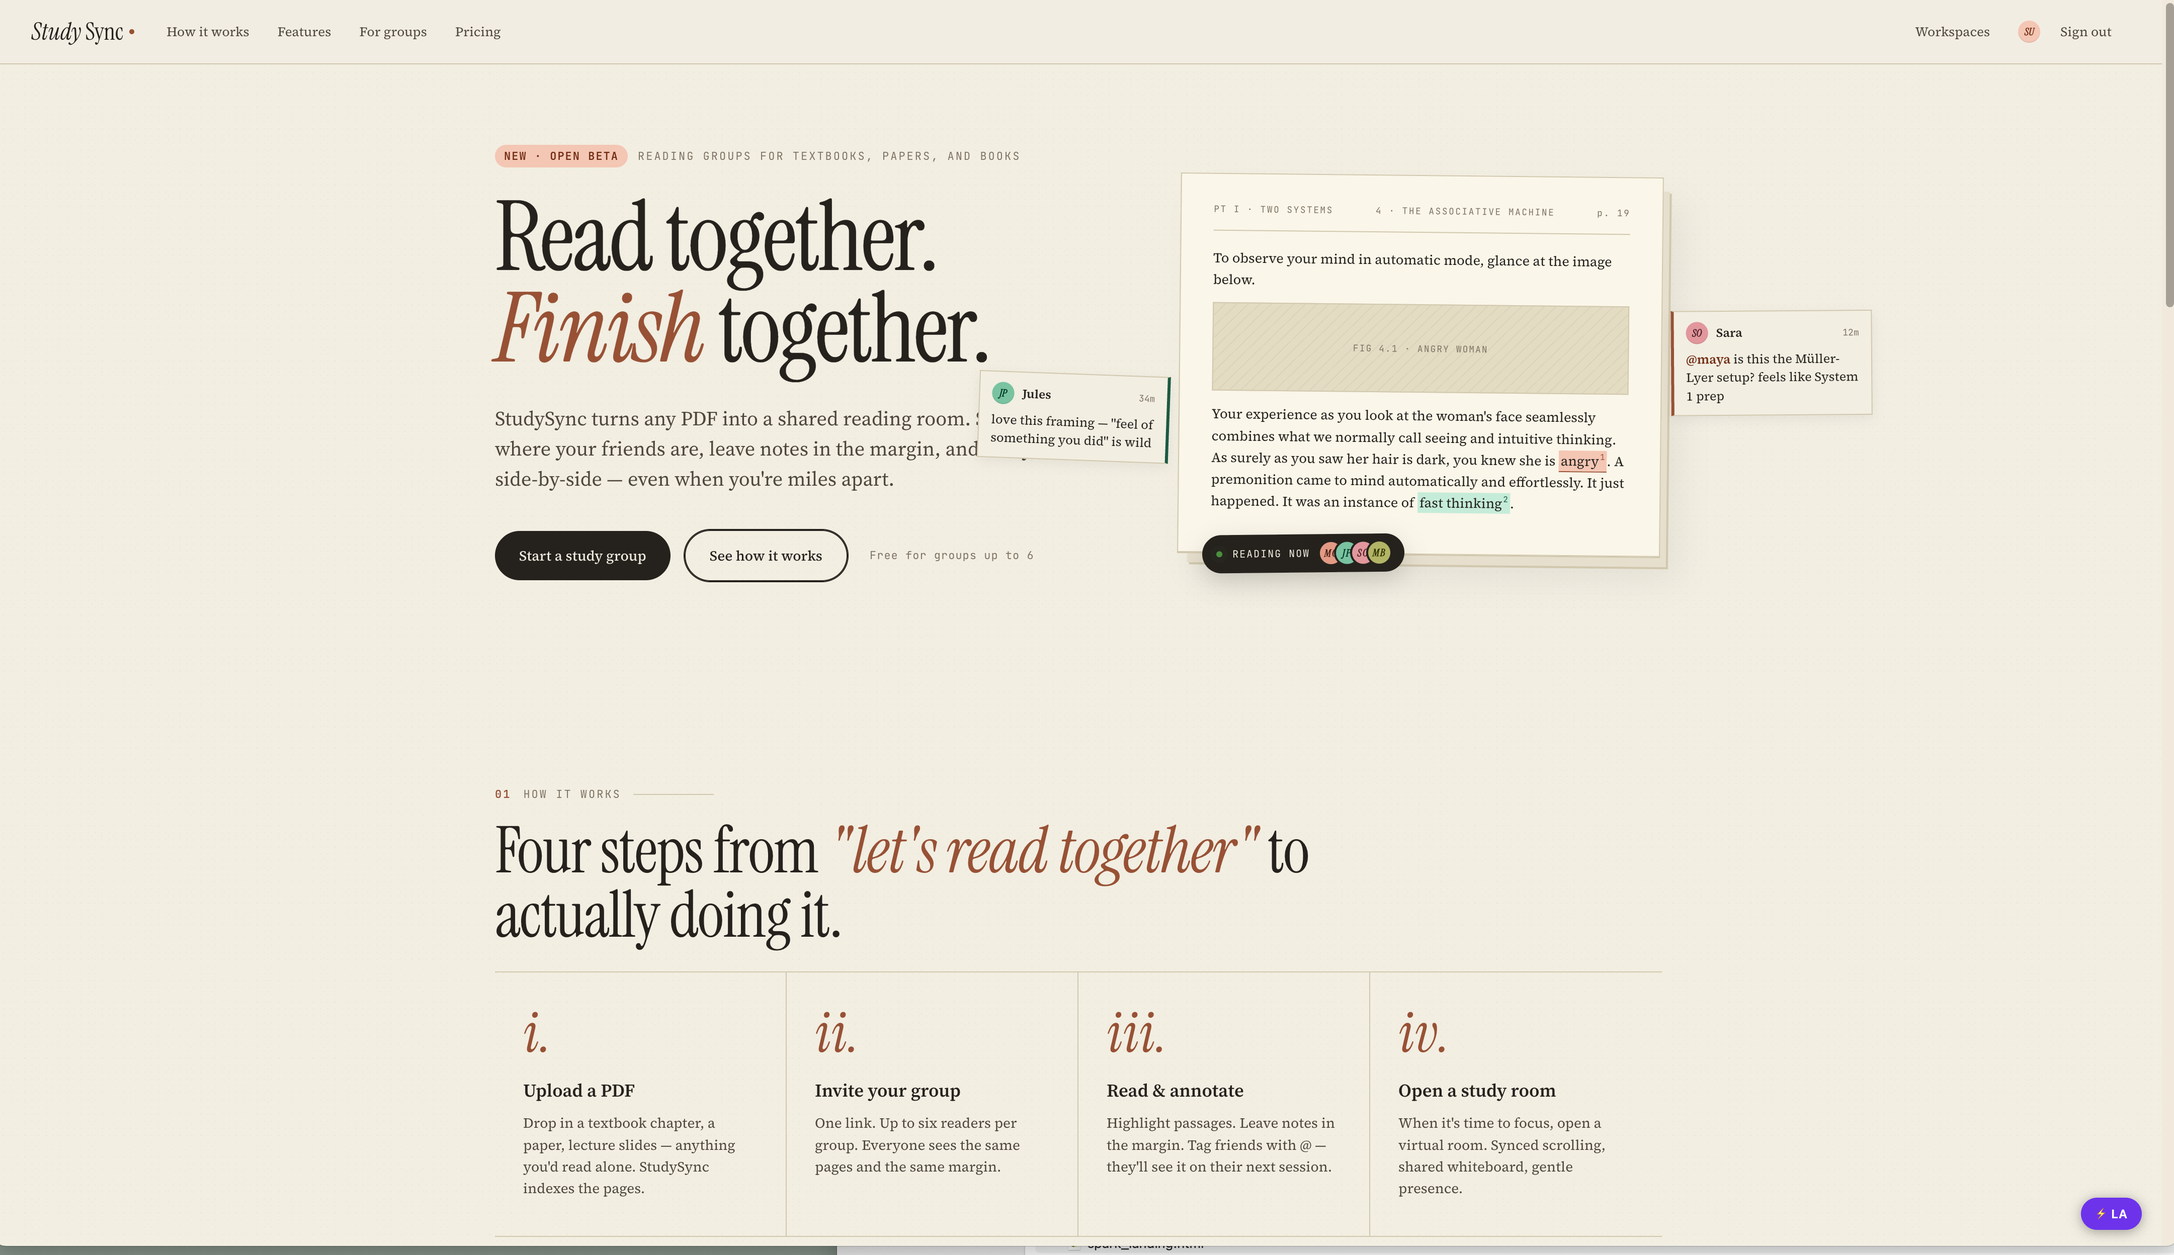
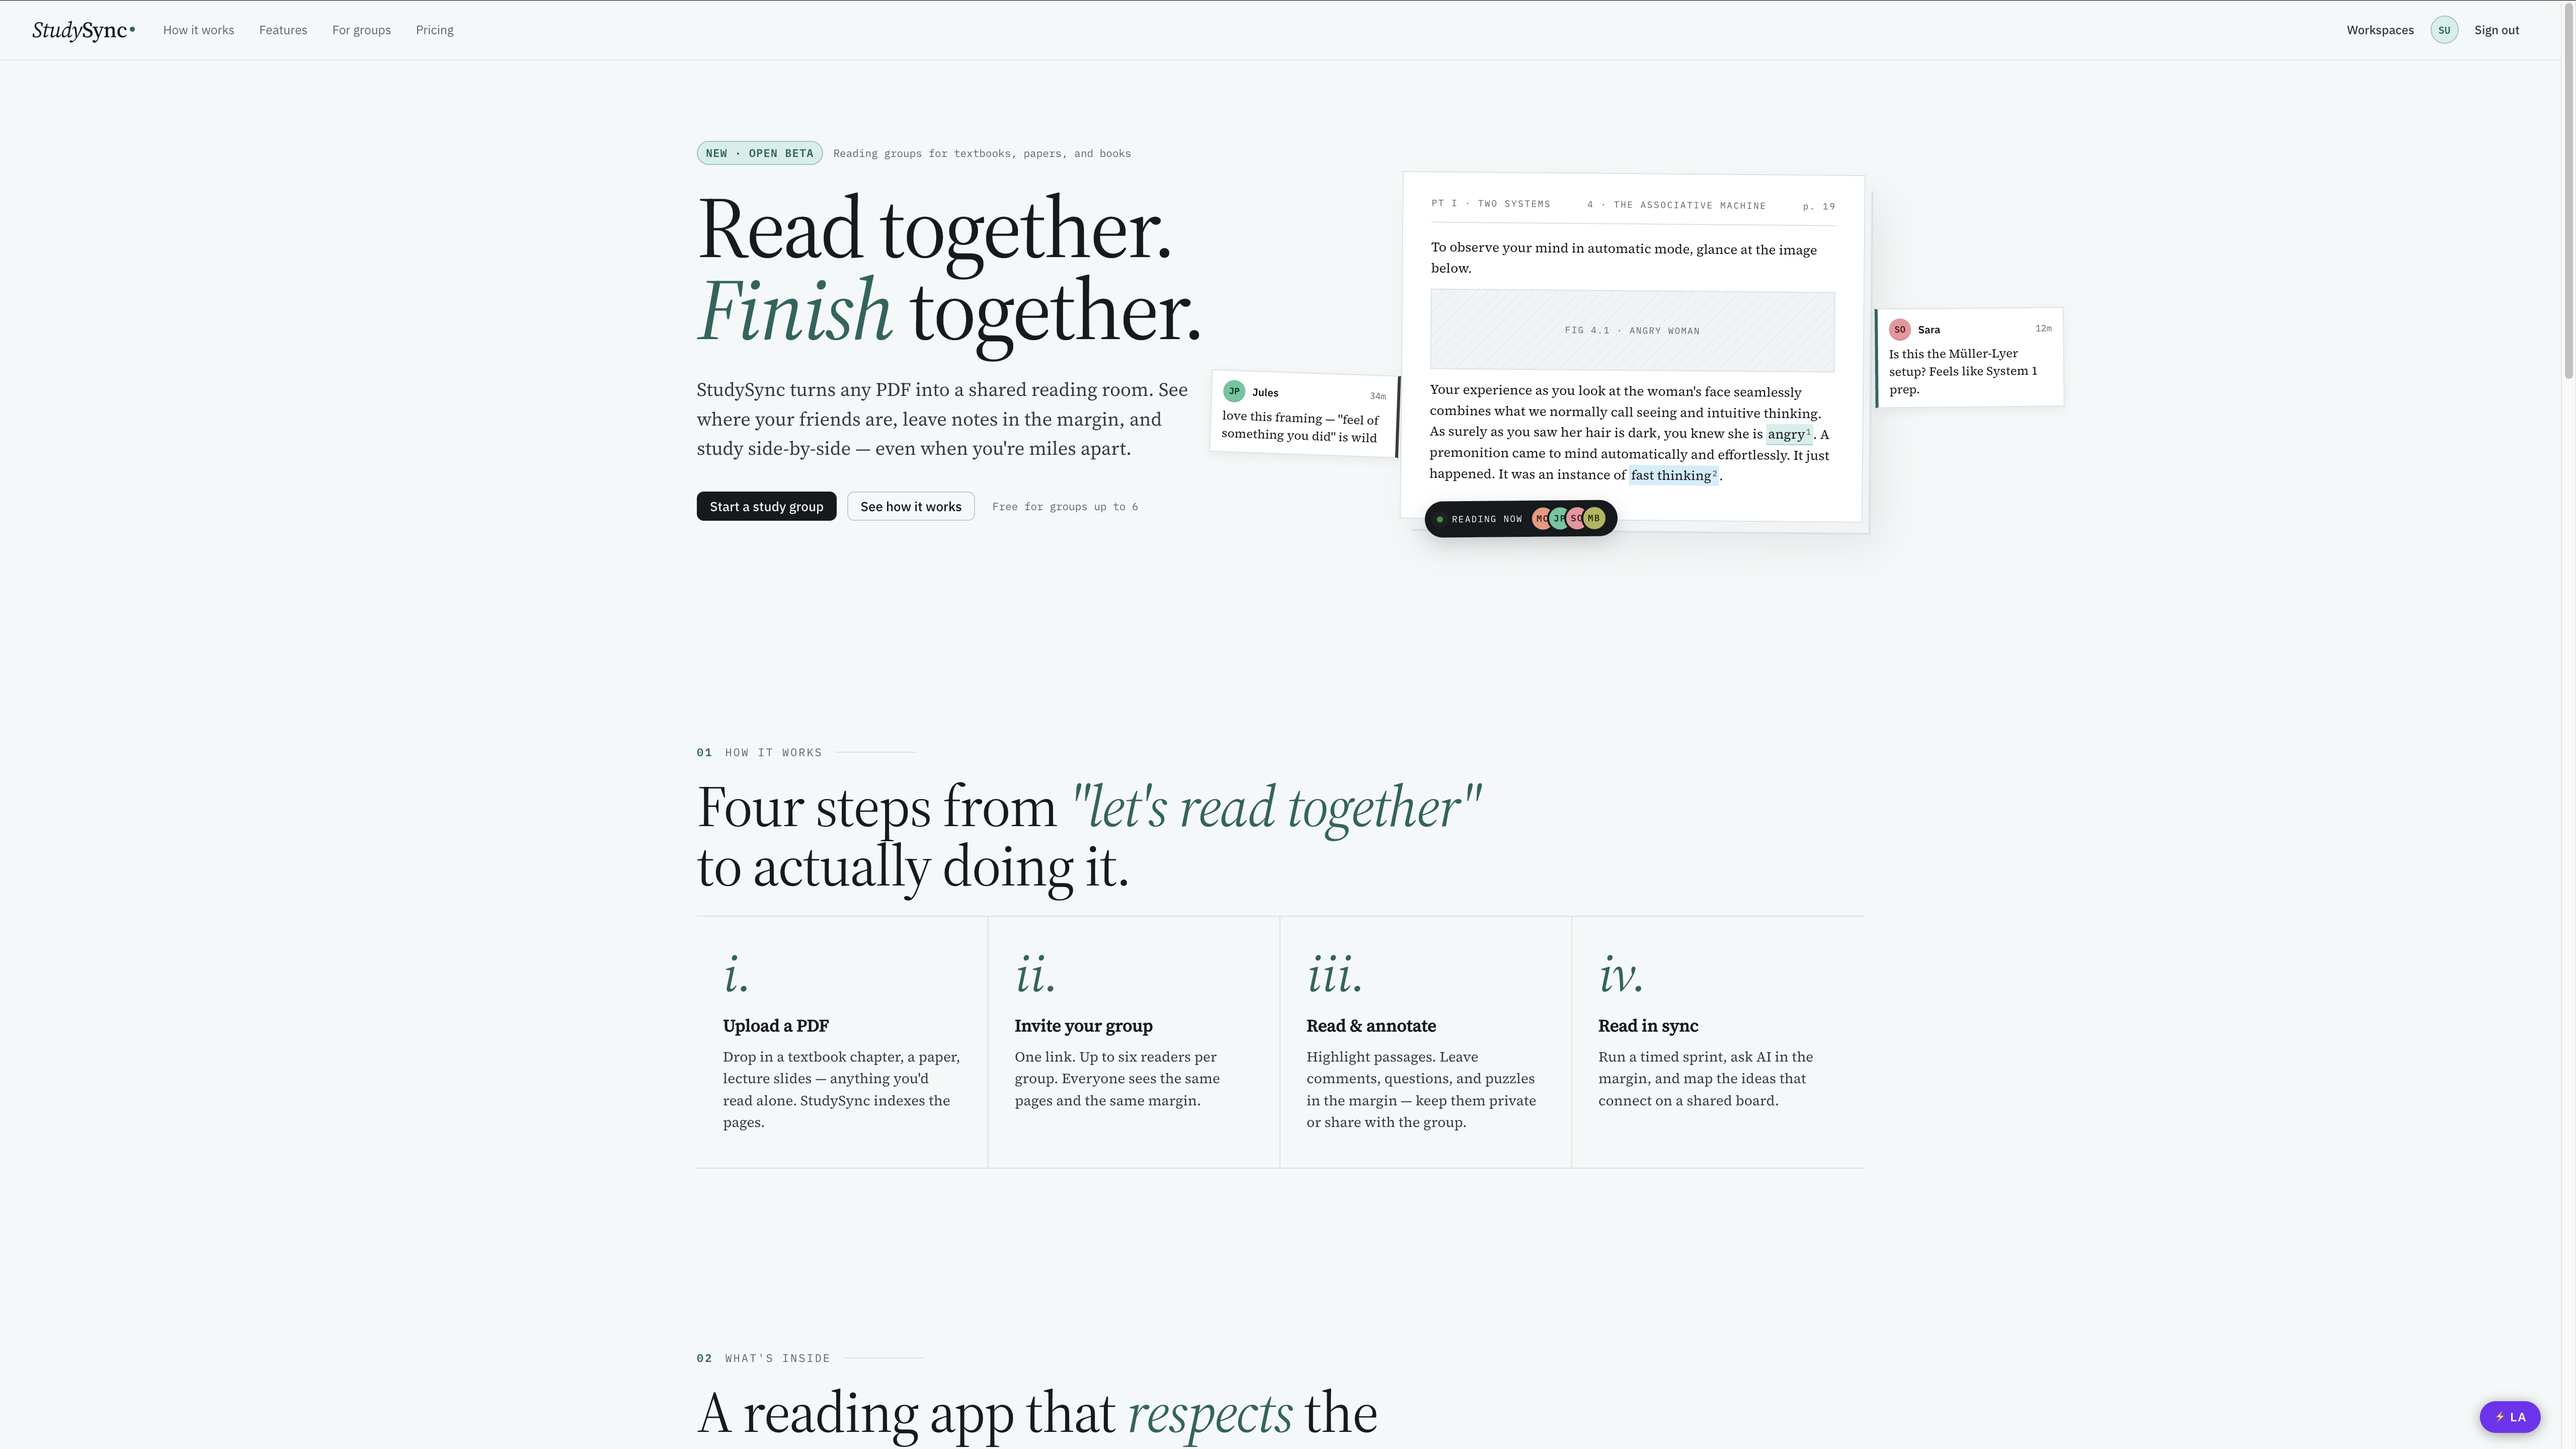
changes to home page

diff --git a/assets/css/app.css b/assets/css/app.css
@@ -823,6 +823,33 @@ body {
 .lp-timer-bar > span { position: absolute; inset: 0; width: 55%; background: var(--color-terracotta); }
 .lp-pomo { font-family: var(--font-serif); font-style: italic; font-size: 20px; color: var(--color-terracotta); }
 
+/* lens / collective-insight card (amber — not theme-flipped, like the highlight tints) */
+.lp-lens { margin-top: 16px; padding: 12px 14px; background: oklch(0.95 0.045 85); border: 1px solid oklch(0.85 0.075 80); border-left: 3px solid oklch(0.70 0.13 70); }
+.lp-lens-head { display: flex; align-items: baseline; justify-content: space-between; margin-bottom: 6px; }
+.lp-lens-badge { font-family: var(--font-mono); font-size: 9px; letter-spacing: 1.2px; color: oklch(0.48 0.12 65); font-weight: 600; }
+.lp-lens-meta { font-family: var(--font-mono); font-size: 9px; letter-spacing: 1px; color: var(--ds-muted); }
+.lp-lens-body { font-family: var(--font-serif); font-size: 13px; line-height: 1.55; color: var(--ds-ink); }
+.lp-lens-body em { font-style: italic; color: oklch(0.45 0.13 60); }
+.lp-lens-by { margin-top: 8px; font-family: var(--font-mono); font-size: 8px; letter-spacing: 1px; color: var(--ds-muted); }
+
+/* ── More features grid ──────────────────────────────────────────────────── */
+
+.lp-more { border-top: 1px solid var(--ds-line); padding-top: 64px; }
+.lp-more-grid {
+  display: grid;
+  grid-template-columns: repeat(3, 1fr);
+  border-top: 1px solid var(--ds-line);
+  border-bottom: 1px solid var(--ds-line);
+}
+.lp-more-card { padding: 28px 24px 32px; border-right: 1px solid var(--ds-line); }
+.lp-more-card:last-child { border-right: none; }
+.lp-more-n {
+  font-family: var(--font-serif); font-style: italic; font-size: 34px;
+  color: var(--color-terracotta); line-height: 1; display: block; margin-bottom: 14px;
+}
+.lp-more-card h4 { font-family: var(--font-serif); font-size: 19px; font-weight: 600; margin: 0 0 8px; letter-spacing: -0.3px; }
+.lp-more-card p { font-family: var(--font-serif); font-size: 13.5px; line-height: 1.55; color: var(--ds-ink-2); margin: 0; }
+
 /* ── Quotes ──────────────────────────────────────────────────────────────── */
 
 .lp-quotes {
@@ -929,6 +956,9 @@ body {
   .lp-step:nth-child(2n) { border-right: none; }
   .lp-feature { grid-template-columns: 1fr; gap: 36px; padding: 56px 0; }
   .lp-feature-flip { direction: ltr; }
+  .lp-more-grid { grid-template-columns: 1fr 1fr; }
+  .lp-more-card { border-bottom: 1px solid var(--ds-line); }
+  .lp-more-card:nth-child(2n) { border-right: none; }
   .lp-h2, .lp-cta-h { font-size: 44px; }
   .lp-quotes-grid { grid-template-columns: 1fr; }
   .lp-footer { grid-template-columns: 1fr 1fr; padding: 36px 32px; }

diff --git a/README.md b/README.md
@@ -6,14 +6,26 @@ The core loop: **Read → Highlight → Annotate → Discuss → AI → Save →
 
 ## Screenshots
 
-**Homeage**
+**Home page**
 
 ![Home page](screenshots/home.png)
+![](screenshots/annotations.png)
 
-**Group Progress**
+**Group progress**
+
 ![Group progress](screenshots/group.png)
-**PDF Reader**
-![PDF Reader](screenshots/reader.png)
+
+**PDF reader** — margin notes, milestones with rubber stamps, and the transient study-room chat panel
+
+![PDF reader](screenshots/reader.png)
+
+**Collective Insight** — the amber "Group Lens" card synthesizes multiple readers' notes on a shared page
+
+![Collective Insight](screenshots/insight.png)
+
+**Concept map board** — PDF pages and rich nodes (text, quote, link, YouTube, hot take) connected on a SvelteFlow canvas
+
+![Concept map board](screenshots/board.png)
 
 ---
 
@@ -23,6 +35,18 @@ StudySync ships **Direction 01 — Margin Notes**: a classical book-margin metap
 
 Two themes are available: `study_sync_default` (Margin Notes, default) and `nord` (opt-in alternate). Users switch from the avatar dropdown.
 
+## Features
+
+- **PDF reader** — three-column reader (chapter rail · page surface · margin column) with page virtualization, smooth scrolling, keyboard shortcuts, and a chapter rail built from the PDF outline.
+- **Annotations & threads** — anchor comments, questions, and puzzles to passages; reply in threads; private or workspace-visible. Footnote markers in the prose map 1:1 to numbered cards in the margin, with bi-directional click/hover sync.
+- **AI assistant ("Ask AI")** — ask a question against a passage; an Oban worker calls the Anthropic API and writes back an AI reply in the annotation thread.
+- **Collective Insight ("Group Lens")** — when 3+ readers annotate the same page, a background job synthesizes their notes into a single amber-tinted insight card in the margin.
+- **Reading sprints** — start a timed, synchronized reading session over a page range; others join, a live countdown runs in the header, and a "compare notes" modal surfaces everyone's sprint-window annotations when time's up.
+- **Reading journal export** — download a reader's annotations for a resource as a typeset PDF (Typst template, cover page, per-page annotation cards with passages and replies).
+- **Transient study-room chat** — an in-reader chat panel backed by an ETS ring buffer (non-persistent, gone on restart) with a live "here now" presence count.
+- **Concept map board** — a per-resource SvelteFlow canvas where readers place PDF pages as thumbnail nodes and connect them. Supports page, text, quote, link, YouTube, and "hot take" node types, plus emoji reactions on nodes.
+- **Real-time everywhere** — annotations, comments, stamps, insights, sprints, chat, and board changes broadcast over Phoenix PubSub and patch open readers live.
+
 ## Domain model
 
 - **Workspace** — top-level tenant with members (`:admin`, `:member`).
@@ -31,6 +55,10 @@ Two themes are available: `study_sync_default` (Margin Notes, default) and `nord
 - **AnnotationComment** — a reply within an annotation's thread. AI replies set `is_ai_response: true`.
 - **MilestoneMarker** — admin-placed checkpoint anchored to `(resource, page, position)`.
 - **RubberStamp** — a user's completion mark against a milestone.
+- **CollectiveInsight** — AI synthesis of multiple readers' annotations on a shared page.
+- **Sprint** / **SprintMember** — a timed, synchronized reading session over a page range and its participants.
+- **Board.Node** / **Board.Edge** / **Board.Reaction** — concept-map nodes (page, text, quote, link, YouTube, hot-take), their connections, and reactions.
+- **Chat.Message** — a transient study-room chat message held in an ETS ring buffer (not persisted, no Ash resource).
 
 ## Stack
 
@@ -42,13 +70,15 @@ Two themes are available: `study_sync_default` (Margin Notes, default) and `nord
 - **Real-time** — Phoenix PubSub + LiveView
 - **Styling** — Tailwind CSS v4 + DaisyUI v5
 - **PDF rendering** — PDF.js inside the Svelte canvas component
+- **Concept map** — SvelteFlow (`@xyflow/svelte`)
+- **AI** — Anthropic API (via `req`), called from Oban workers
+- **PDF export** — Typst (reading journal)
 
 ## Architecture
 
 - LiveView owns page composition, navigation, forms, lists, and panels.
-- A single Svelte component (`PdfCanvasRenderer`) owns PDF rendering, text selection, highlight overlays, annotation markers, and milestone markers.
-- The LiveView ↔ Svelte contract is narrow and documented in `CLAUDE.md` §4.3 — extend it deliberately, not on a whim.
-- Real-time updates broadcast over Phoenix PubSub on `"resource:#{resource_id}"` topics.
+- Svelte is reserved for high-frequency DOM work: `PdfCanvasRenderer` owns PDF rendering, text selection, highlight overlays, and markers; `ConceptMapBoard` owns the concept-map canvas (a separate screen).
+- Real-time updates broadcast over Phoenix PubSub, scoped per resource (`"resource:#{resource_id}"`, plus `:board` and `:chat` sub-topics).
 - AI assistant calls and any work >150ms run as Oban jobs.
 
 ## Getting started
@@ -59,29 +89,3 @@ To start your Phoenix server:
 - Start Phoenix endpoint with `mix phx.server` or inside IEx with `iex -S mix phx.server`
 
 Then visit [`localhost:4000`](http://localhost:4000) from your browser.
-
-## Project documentation
-
-- `CLAUDE.md` — operating manual for coding agents working in this repo (architecture rules, visual system, conventions).
-- `references/REQUIREMENTS.md` — full product spec.
-- `references/ROADMAP.md` — slice-by-slice build plan; check items off as they ship.
-- `.claude/skills/frontend/references/StudySync_Design Explorations.pdf` — visual reference (pages 2–5 are Direction 01).
-
-## Build priority
-
-1. PDF Viewer + Text Selection
-2. Annotation Creation + Display
-3. Bi-directional Sync (PDF ↔ margin panel)
-4. Annotation Threads
-5. AI Integration
-6. Milestone + Rubber Stamp System
-
-## Deployment
-
-Ready to run in production? See the [Phoenix deployment guides](https://hexdocs.pm/phoenix/deployment.html).
-
-## Learn more
-
-- Phoenix: https://www.phoenixframework.org/ · [guides](https://hexdocs.pm/phoenix/overview.html) · [docs](https://hexdocs.pm/phoenix)
-- Ash Framework: https://ash-hq.org · [docs](https://hexdocs.pm/ash)
-- Live Svelte: https://hexdocs.pm/live_svelte
